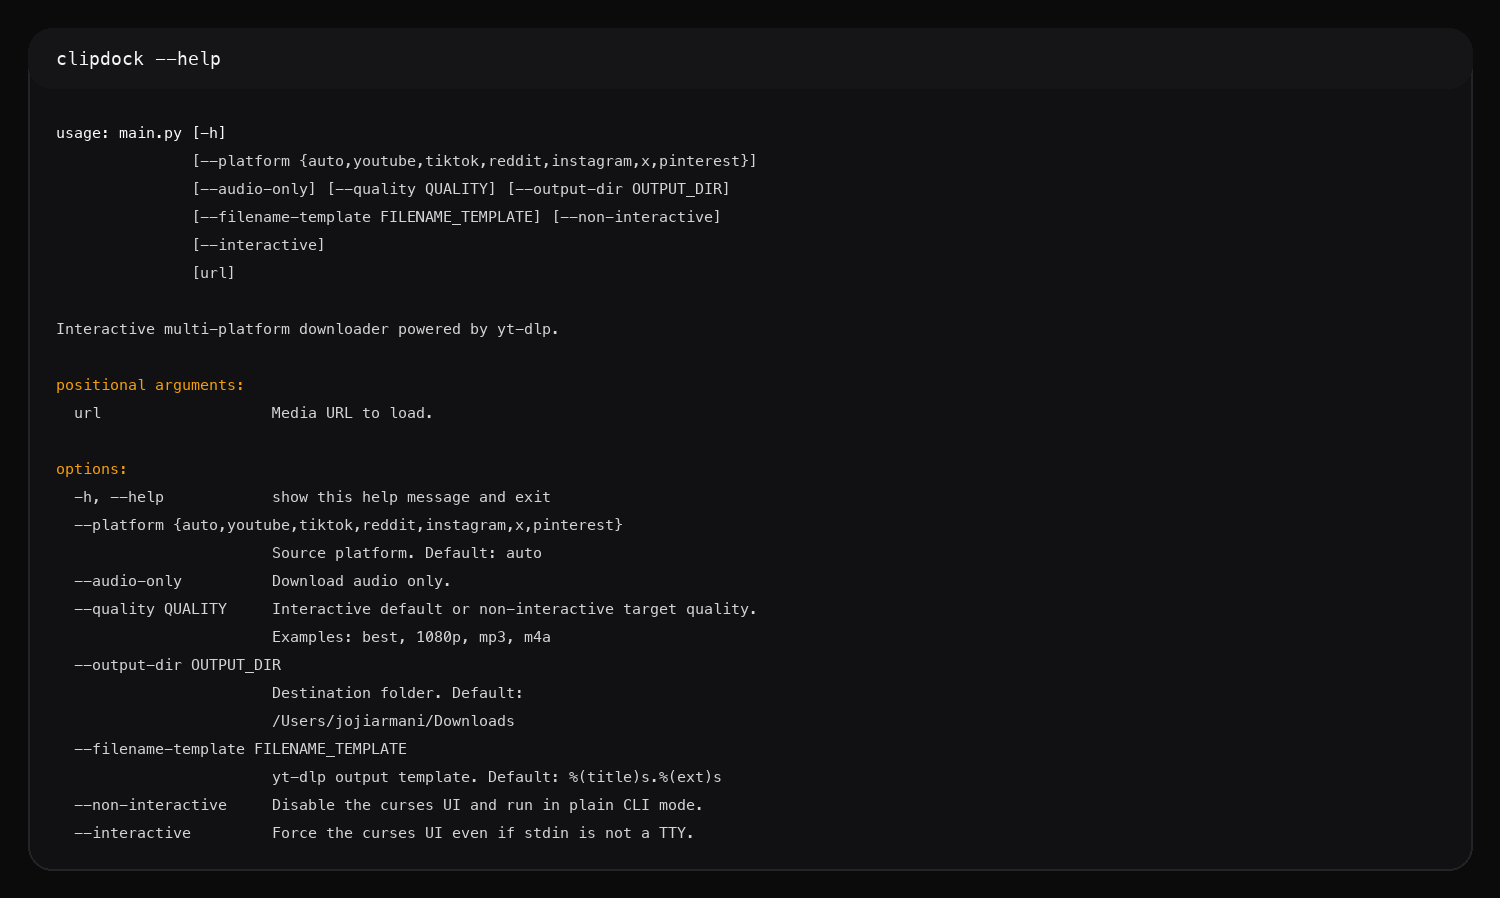
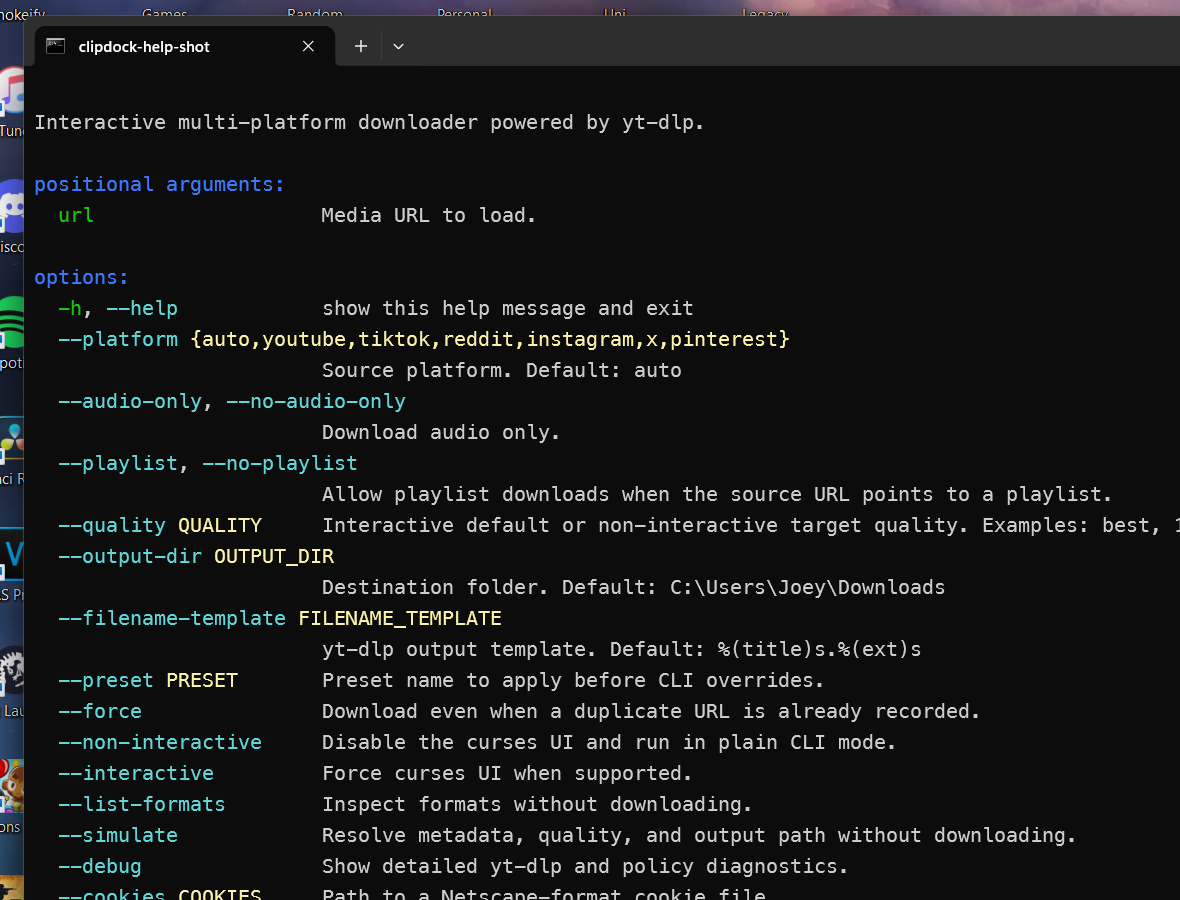
docs: refresh readme screenshots with live captures

Changed region(s): [[0.0, 0.0, 1.0, 1.0], [0.5797, 0.6236, 0.7932, 0.686]]

diff --git a/README.md b/README.md
@@ -9,6 +9,8 @@ Terminal-first media downloader built on `yt-dlp`, with an interactive curses UI
 
 ## Preview
 
+Real screenshots from the current Windows build:
+
 <p align="center">
   <img src="./docs/assets/terminal-preview.png" alt="clipdock terminal preview" width="88%" />
 </p>
